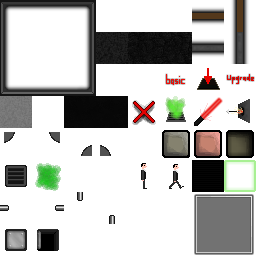
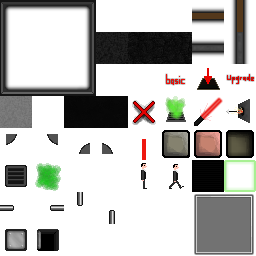
97% but it's likely too late..

diff --git a/LD25/src/com/mutantamoeba/ld25/Room.java b/LD25/src/com/mutantamoeba/ld25/Room.java
@@ -1,15 +1,24 @@
 package com.mutantamoeba.ld25;
 
+import com.badlogic.gdx.utils.Array;
+import com.mutantamoeba.ld25.actors.GameEntity;
 import com.mutantamoeba.ld25.screens.GameScreen;
 
 public class Room {
 	int mapX, mapY;
 	Room up, down, left, right;
 	private RoomConfig config;
+	Array<GameEntity> entities = new Array<GameEntity>();
+	Array<GameEntity> trapEntities = new Array<GameEntity>();
 	public Room(RoomConfig config, int mapX, int mapY) {
 		this.mapX = mapX;
 		this.mapY = mapY;
 		this.config(config);
+	}
+	public void destroy() {
+		for (GameEntity trap:trapEntities) {
+			removeTrapEntity(trap);
+		}
 	}
 	public String toString() {
 		return String.format("%s {up:%s, down:%s, left:%s, right:%s}", Room.toString(this, false), Room.toString(up, false), Room.toString(down, false),
@@ -23,9 +32,16 @@ public class Room {
 		return String.format("Room[%d, %d]", room.mapX, room.mapY);
 	}
 	public String infoString() {
-		return String.format("type  : %s\n" +
-							 "health: %.0f\n" +
-							 "level : %d\n", config().type, config().health, config().level()+1);
+		String extra = "";
+		if (LD25.DEBUG_MODE){
+			extra = String.format("trap entities: %d", trapEntities.size);
+		}
+		return String.format("type    : %s\n" +
+							 "health  : %.0f\n" +
+							 "level   : %d\n" +
+							 "entities: %d\n" +
+							 "extra   :\n" +
+							 " %s\n", config().type, config().health, config().level()+1, entities.size, extra);
 	}
 	/**
 	 * @param config the config to set
@@ -55,5 +71,29 @@ public class Room {
 	}
 	public float getWorldY() {
 		return mapY * GameWorld.ROOM_SIZE * GameScreen.TILE_SIZE;
+	}
+	public void addEntity(GameEntity e) {
+		entities.add(e);
+	}
+	public void removeEntity(GameEntity e) {
+		entities.removeValue(e, true);
+	}
+	public void addTrapEntity(GameEntity e) {
+		trapEntities.add(e);
+		GameWorld.instance().gameScreen().addEntity(e);
+	}
+	public void removeTrapEntity(GameEntity e) {
+		trapEntities.removeValue(e, true);
+		GameWorld.instance().gameScreen().removeEntity(e);
+	}	
+	public void activateTraps() {
+		config.activateTraps(this);
+	}
+	public void createTrapEntity(int xx, int yy) {
+		GameEntity trap = config.createTrapEntity(xx, yy);
+		if (trap == null) return;
+		trap.setPosition(getWorldX() + xx * GameScreen.TILE_SIZE, getWorldY() + yy * GameScreen.TILE_SIZE);
+		
+		addTrapEntity(trap);
 	}
 }

diff --git a/LD25/src/com/mutantamoeba/ld25/actors/GameEntity.java b/LD25/src/com/mutantamoeba/ld25/actors/GameEntity.java
@@ -1,5 +1,6 @@
 package com.mutantamoeba.ld25.actors;
 
+import com.badlogic.gdx.graphics.Texture;
 import com.badlogic.gdx.graphics.g2d.SpriteBatch;
 import com.badlogic.gdx.graphics.g2d.TextureRegion;
 import com.badlogic.gdx.scenes.scene2d.Group;
@@ -11,9 +12,21 @@ import com.mutantamoeba.ld25.utils.RandomNumbers;
 public class GameEntity extends Group {	
 	TextureRegion region;
 	Room room;
+	public GameEntity(Texture tex, int tileIndex) {
+		super();
+		int texTileWidth = tex.getWidth() / GameScreen.TILE_SIZE;
+		int tileX = tileIndex % texTileWidth;
+		int tileY = tileIndex / texTileWidth;
+		this.region = new TextureRegion(tex, tileX, tileY, GameScreen.TILE_SIZE, GameScreen.TILE_SIZE);
+	}
 	public GameEntity(TextureRegion region) {
 		super();
 		this.region = region;
+	}
+	
+	public GameEntity(GameEntity other) {
+		super();
+		this.region = other.region;		
 	}
 	/* (non-Javadoc)
 	 * @see com.badlogic.gdx.scenes.scene2d.Actor#draw(com.badlogic.gdx.graphics.g2d.SpriteBatch, float)
@@ -32,8 +45,6 @@ public class GameEntity extends Group {
 	 */
 	@Override
 	public void act(float delta) {
-		float speed = 3f;
-		setPosition(getX() + speed * (RandomNumbers.nextFloat() - 0.5f), getY() + speed * (RandomNumbers.nextFloat() - 0.5f));
 		// TODO Auto-generated method stub
 		super.act(delta);
 	}
@@ -51,7 +62,7 @@ public class GameEntity extends Group {
 	private boolean updateRoom(int x, int y) {
 		EntityGroup par = ((EntityGroup)this.getParent());
 		Room oldRoom = room;
-		room = par.world.roomMap.get(x, y);
+		room = GameWorld.instance().roomMap.get(x, y);
 //		Console.debug("(%d, %d) oldRoom:%s room:%s", x, y, oldRoom, room);
 		if (oldRoom != room) {
 //			Console.debug("changed rooms to %s [%d, %d]", room, x, y);
@@ -59,6 +70,9 @@ public class GameEntity extends Group {
 				room = oldRoom;
 				return false;
 			}
+			if (oldRoom != null)
+				oldRoom.removeEntity(this);
+			room.addEntity(this);
 		}
 		return true;
 	}

diff --git a/LD25/src/com/mutantamoeba/ld25/screens/GameScreen.java b/LD25/src/com/mutantamoeba/ld25/screens/GameScreen.java
@@ -24,6 +24,7 @@ import com.mutantamoeba.ld25.Room;
 import com.mutantamoeba.ld25.RoomCreationTool;
 import com.mutantamoeba.ld25.RoomRenderer;
 import com.mutantamoeba.ld25.RoomUpgradeTool;
+import com.mutantamoeba.ld25.actors.BondEntity;
 import com.mutantamoeba.ld25.actors.EntityGroup;
 import com.mutantamoeba.ld25.actors.FpsCounter;
 import com.mutantamoeba.ld25.actors.GameEntity;
@@ -181,6 +182,21 @@ public class GameScreen extends BasicScreen {
 		};
 		budget.setPosition(10, Gdx.graphics.getHeight() - 20);		
 		uiStage.addActor(budget);
+		
+		SimpleTextButton entityCount = new SimpleTextButton(this, "") {
+			/* (non-Javadoc)
+			 * @see com.badlogic.gdx.scenes.scene2d.Actor#act(float)
+			 */
+			@Override
+			public void act(float delta) {
+				setLabel(String.format("total entities: %d", entities.getChildren().size));
+				super.act(delta);
+			}
+			
+		};
+		entityCount.setPosition(10, Gdx.graphics.getHeight() - 50);
+		uiStage.addActor(entityCount);
+		
 		
 		TextureRegion region = new TextureRegion(texture, 192, 192, 64, 64);
 		NinePatch ninePatch = new NinePatch(region);
@@ -379,7 +395,7 @@ public class GameScreen extends BasicScreen {
 	public void spawnActor(float x, float y) {
 		// [@temp just adds an entity for now]
 		TextureRegion region = new TextureRegion(texture, 4 * 32, 5 * 32, 32, 32);
-		Actor actor = new GameEntity(region);	
+		Actor actor = new BondEntity(region);	
 		actor.setBounds(x, y, 32, 32);
 		actor.setOrigin(16, 0);
 		entities.addActor(actor);		
@@ -533,5 +549,13 @@ public class GameScreen extends BasicScreen {
 	 */
 	public TileRenderer getTileRenderer() {
 		return tileRenderer;
+	}
+
+	public void removeEntity(GameEntity entity) {
+		entities.removeActor(entity);
 	}		
+	public GameEntity addEntity(GameEntity entity) {
+		entities.addActor(entity);
+		return entity;
+	}
 }

diff --git a/LD25/src/com/mutantamoeba/ld25/RoomTemplate.java b/LD25/src/com/mutantamoeba/ld25/RoomTemplate.java
@@ -1,10 +1,22 @@
 package com.mutantamoeba.ld25;
 
+import com.mutantamoeba.ld25.actors.GameEntity;
+
 public class RoomTemplate {
+	public enum WallType {
+		OTHER(0), UP(1), DOWN(2), LEFT(3), RIGHT(4);
+		private int numVal;
+		WallType(int numVal) { this.numVal = numVal; }
+		public int val() {
+			return numVal;
+		}
+	};
+	
 	String name;
 	public int maxLevel;
 	int objectTiles[][];	
 	float cost[];	// 0=creation, the rest are upgrade prices
+	GameEntity traps[] = new GameEntity[5];
 	RoomTemplate(String name, int maxLevel) {
 		this.name = name;
 		this.maxLevel = maxLevel;
@@ -29,7 +41,9 @@ public class RoomTemplate {
 			cost[i] = costs[i];
 		}
 	}
-
+	public void setTrapEntity(WallType wallType, GameEntity entity) {
+		traps[wallType.val()] = entity;
+	}
 	public RoomConfig createConfig() {
 		RoomConfig config = new RoomConfig(this);
 		
@@ -44,5 +58,23 @@ public class RoomTemplate {
 	}
 	public float getCost(int level) {
 		return cost[level];
+	}
+	public void activateTraps(Room room) {
+
+	}
+	public GameEntity createTrapEntity(int xx, int yy) {
+		if (xx == 0 && traps[WallType.LEFT.val()] != null) {
+			return new GameEntity(traps[WallType.LEFT.val()]);
+		} else if (yy == 0 && traps[WallType.UP.val()] != null) {
+			return new GameEntity(traps[WallType.LEFT.val()]);
+		} else if (xx == GameWorld.ROOM_SIZE-1 && traps[WallType.RIGHT.val()] != null) {
+			return new GameEntity(traps[WallType.LEFT.val()]);
+		} else if (yy == GameWorld.ROOM_SIZE-1 && traps[WallType.DOWN.val()] != null) {
+			return new GameEntity(traps[WallType.LEFT.val()]);
+		} else if (traps[WallType.OTHER.val()] != null) {
+			return new GameEntity(traps[WallType.OTHER.val()]);
+		}
+
+		return null;
 	}
 }

diff --git a/LD25/src/com/mutantamoeba/ld25/GameWorld.java b/LD25/src/com/mutantamoeba/ld25/GameWorld.java
@@ -1,6 +1,8 @@
 package com.mutantamoeba.ld25;
 
 import com.badlogic.gdx.utils.ObjectMap;
+import com.mutantamoeba.ld25.RoomTemplate.WallType;
+import com.mutantamoeba.ld25.actors.GameEntity;
 import com.mutantamoeba.ld25.screens.GameScreen;
 import com.mutantamoeba.ld25.tilemap.TileMap;
 import com.mutantamoeba.ld25.utils.RandomNumbers;
@@ -63,6 +65,7 @@ public class GameWorld {
 		
 		tpl = addRoomTemplate("gas", 4);
 		tpl.setCosts(roomCosts);
+		tpl.setTrapEntity(WallType.OTHER, new GameEntity(gameScreen.texture, 57));
 		tpl.setObjectTiles(0, new int[] {
 			-1, -1, -1, -1, -1,
 			-1, -1, -1, -1, -1,

diff --git a/LD25/src/com/mutantamoeba/ld25/screens/RoomInspector.java b/LD25/src/com/mutantamoeba/ld25/screens/RoomInspector.java
@@ -69,9 +69,9 @@ public class RoomInspector extends Group {
 	@Override
 	public void draw(SpriteBatch batch, float parentAlpha) {
 		if (isVisible() && room != null) {
-			
-			this.ninePatch.draw(batch, getX(), getY(), getWidth(), getHeight());
 			String infoString = room.infoString();
+			setHeight(font.getMultiLineBounds(infoString).height + 60);
+			this.ninePatch.draw(batch, getX(), getY(), getWidth(), getHeight());
 			float height = font.getMultiLineBounds(infoString).height;
 			font.drawMultiLine(batch, infoString, getX() + 30, getY() + getHeight() - 25);
 		}

diff --git a/LD25/src/com/mutantamoeba/ld25/RoomConfig.java b/LD25/src/com/mutantamoeba/ld25/RoomConfig.java
@@ -1,5 +1,6 @@
 package com.mutantamoeba.ld25;
 
+import com.mutantamoeba.ld25.actors.GameEntity;
 import com.mutantamoeba.ld25.engine.Console;
 
 public class RoomConfig {
@@ -51,5 +52,11 @@ public class RoomConfig {
 		}
 		Console.debug("Can't upgrade");
 		return 0;
+	}
+	public void activateTraps(Room room) {
+		template.activateTraps(room);
+	}
+	public GameEntity createTrapEntity(int xx, int yy) {		
+		return template.createTrapEntity(xx, yy);
 	}
 }

diff --git a/LD25/src/com/mutantamoeba/ld25/RoomMap.java b/LD25/src/com/mutantamoeba/ld25/RoomMap.java
@@ -147,6 +147,7 @@ public class RoomMap extends ParameterMap<Room> {
 				}
 				if (objects != null && objects[offs] != -1) {
 					tile.layers[Tile.HAZARD_LAYER] = objects[offs];
+					r.createTrapEntity(xx, yy);
 				}
 				world.tileMap.set(tileX + xx, tileY + yy, tile);
 			}
